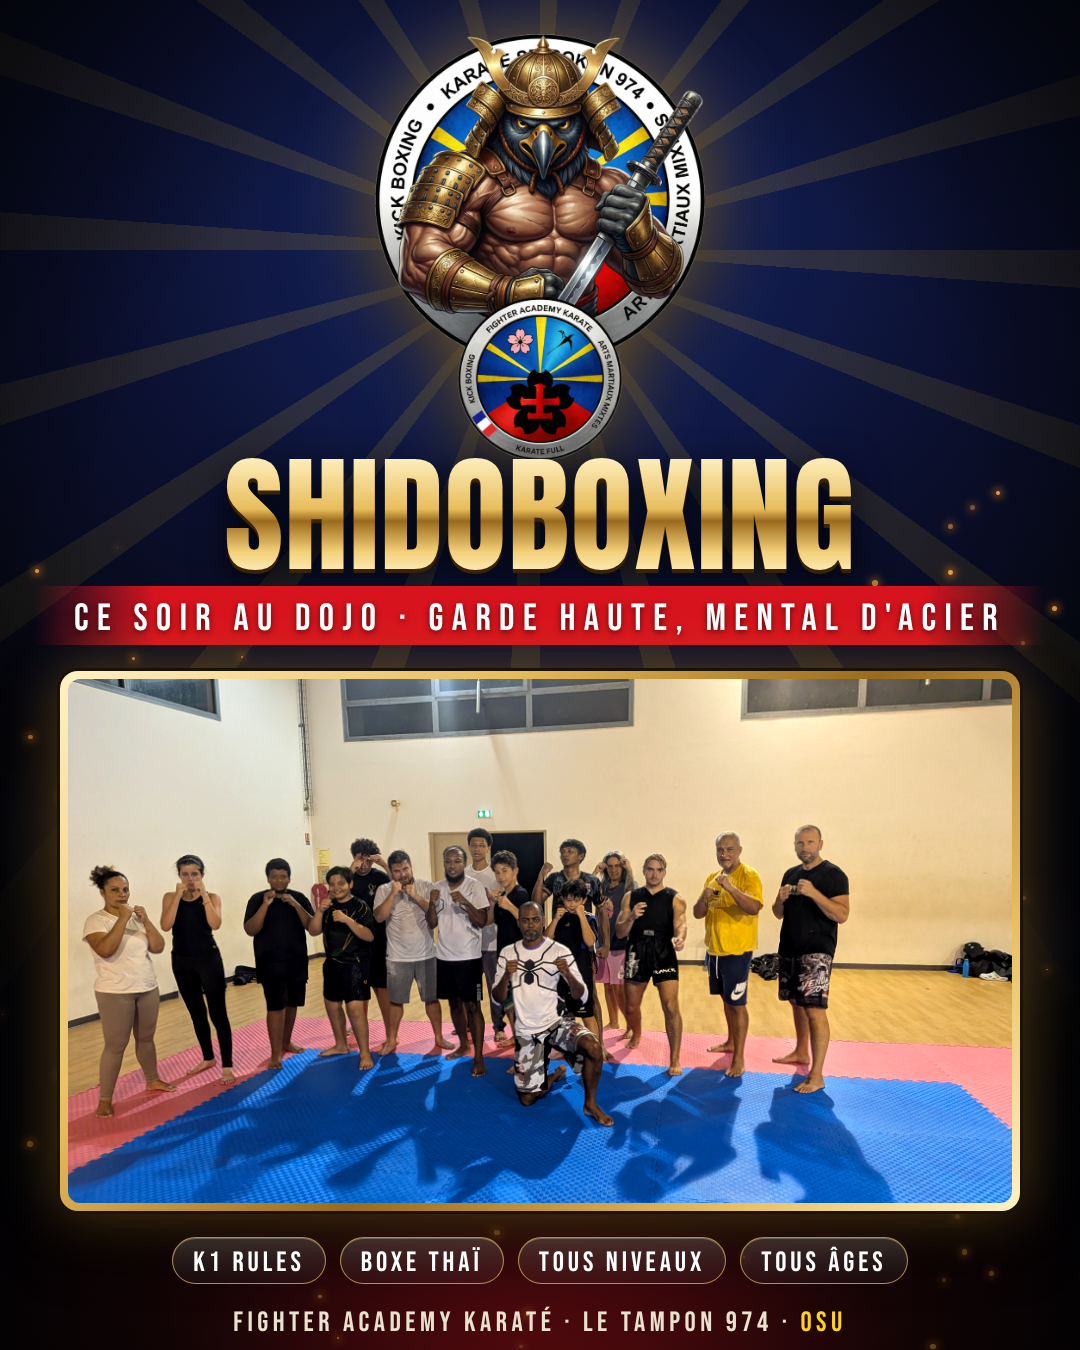
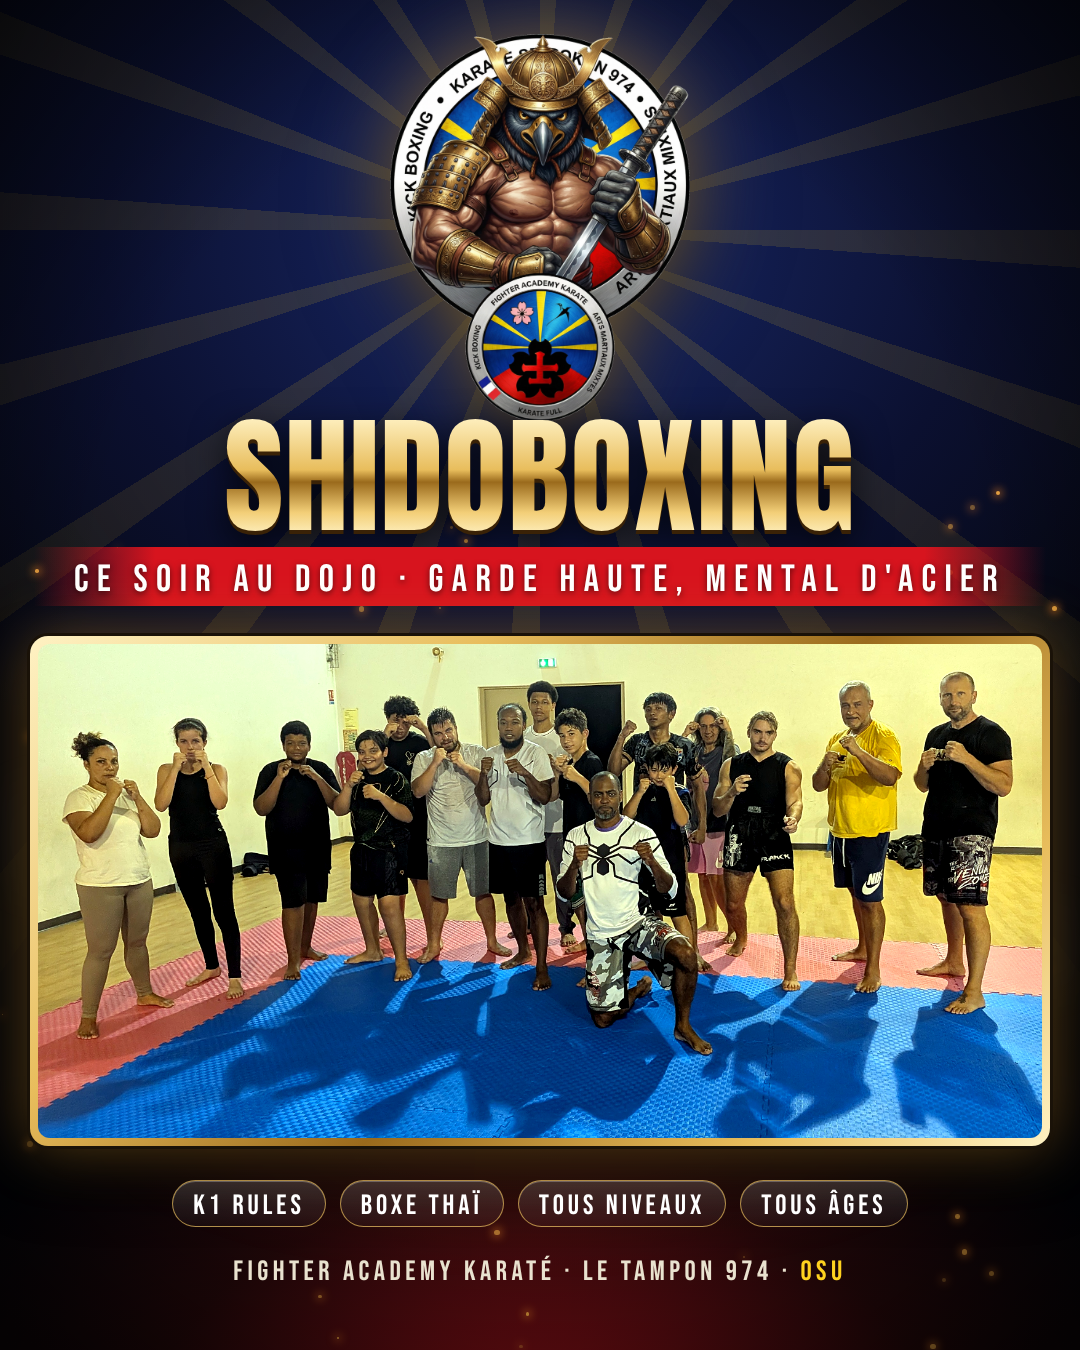
Dojo : photo de groupe recadrée et corrigée dans les visuels Shidoboxing
Claude-Session: https://claude.ai/code/session_01KWjQozAGZcn2m3KXQepReM

diff --git a/dojo/epic-post-shidoboxing.html b/dojo/epic-post-shidoboxing.html
@@ -1,17 +1,17 @@
 <!DOCTYPE html><html lang="fr"><head><meta charset="utf-8"><title>Shidoboxing epic post</title>
 <link rel="stylesheet" href="epic-common.css"><style>
 html,body{width:1080px;height:1350px} .c{width:1080px;height:1350px;padding-top:34px}
-.rays{top:250px} .logo{width:330px}
+.rays{top:230px} .logo{width:300px}
 .title{font-size:128px;margin-top:-6px} .ribbon{font-size:38px;margin-top:10px}
-.frame{width:960px;height:540px;margin-top:26px}
-.chips{margin-top:26px} .chips span{font-size:28px}
-.foot{font-size:28px;margin-top:22px}
+.frame{width:1020px;height:510px;margin-top:30px}
+.chips{margin-top:34px} .chips span{font-size:28px}
+.foot{font-size:28px;margin-top:28px}
 </style></head><body><div class="c">
 <div class="rays"></div><div class="lava"></div><div class="smoke"></div>
 <img class="logo" src="brand/logo-detoure.png" alt="">
 <div class="title gold">Shidoboxing</div>
 <div class="ribbon">CE SOIR AU DOJO · GARDE HAUTE, MENTAL D'ACIER</div>
-<div class="frame"><img src="photos/shidoboxing-groupe.jpg" alt=""></div>
+<div class="frame"><img src="photos/shidoboxing-groupe-v2.jpg" alt=""></div>
 <div class="chips"><span>K1 RULES</span><span>BOXE THAÏ</span><span>TOUS NIVEAUX</span><span>TOUS ÂGES</span></div>
 <div class="foot">FIGHTER ACADEMY KARATÉ · LE TAMPON 974 · <b>OSU</b></div>
 <div class="vign"></div></div><script src="embers.js"></script></body></html>

diff --git a/dojo/epic-story-shidoboxing.html b/dojo/epic-story-shidoboxing.html
@@ -3,7 +3,7 @@
 html,body{width:1080px;height:1920px} .c{width:1080px;height:1920px;padding-top:150px}
 .rays{top:380px} .logo{width:400px}
 .title{font-size:150px;margin-top:2px} .ribbon{font-size:42px;margin-top:10px}
-.frame{width:1000px;height:563px;margin-top:30px}
+.frame{width:1030px;height:515px;margin-top:34px}
 .tag{position:relative;z-index:2;font-family:Anton;font-size:68px;margin-top:30px;text-transform:uppercase;line-height:1;text-align:center}
 .chips{margin-top:24px} .chips span{font-size:32px}
 .foot{font-size:32px;margin-top:22px}
@@ -12,7 +12,7 @@ html,body{width:1080px;height:1920px} .c{width:1080px;height:1920px;padding-top:
 <img class="logo" src="brand/logo-detoure.png" alt="">
 <div class="title gold">Shidoboxing</div>
 <div class="ribbon">CE SOIR AU DOJO</div>
-<div class="frame"><img src="photos/shidoboxing-groupe.jpg" alt=""></div>
+<div class="frame"><img src="photos/shidoboxing-groupe-v2.jpg" alt=""></div>
 <div class="tag chrome">Garde haute.<br>Mental d'acier.</div>
 <div class="chips"><span>K1 RULES</span><span>BOXE THAÏ</span><span>TOUS NIVEAUX</span></div>
 <div class="foot">COURS D'ESSAI · ÉCRIS-NOUS EN MP · <b>OSU</b></div>
